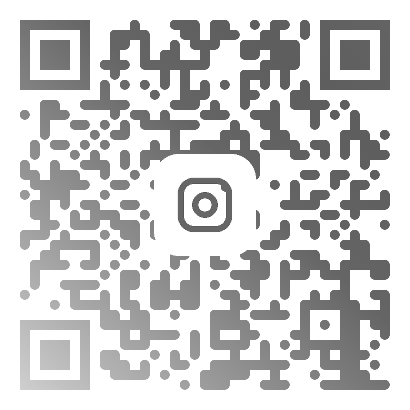
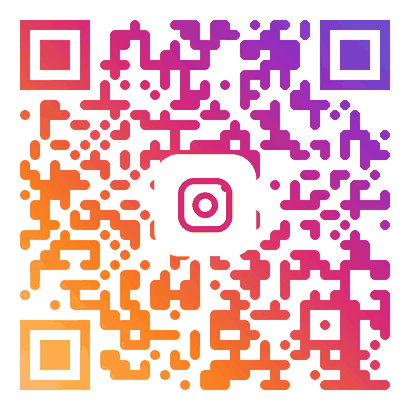
LP: 点検の指摘を反映（実名不要の明記、英中の実ラベル併記とアプリは日本語のみの注記、校舎の訳、平均15〜20分、固定ボタンがフッターを隠さない、統計2×2、About見出し、QRをカラーに等）
Claude-Session: https://claude.ai/code/session_01UHYxsu5FAgHywruL1DhtZn

diff --git a/index.html b/index.html
@@ -852,7 +852,6 @@ footer {
 ════════════════════════════════════════════ */
 @media (max-width: 375px) {
   .hero-title { font-size: 2.4rem; }
-  .hero-stats { flex-direction: column; align-items: center; gap: 12px; }
   .members-grid { grid-template-columns: 1fr; }
 }
 
@@ -976,6 +975,24 @@ footer { font-size: 0.8rem; line-height: 1.7; }
   .hero::before { animation: none !important; }
   .sticky-cta { transition: none; }
 }
+.app-shot { margin: 48px auto 0; }
+/* ヒーローの統計: スマホでは 2×2 */
+@media (max-width: 767px) {
+  .hero-stats { display: grid; grid-template-columns: repeat(2, auto); justify-content: center; gap: 16px 32px; }
+  footer { padding-bottom: 96px; }
+  .lang-btn { border: 7px solid transparent; border-width: 7px 2px; padding: 0 8px; }
+  .lang-btn.active { background-clip: padding-box; }
+}
+/* このサービスについて: 3枚が 2＋1 で空かないように */
+.about-grid { grid-template-columns: 1fr; }
+@media (min-width: 576px) and (max-width: 1099px) {
+  .about-grid { grid-template-columns: repeat(2, 1fr); }
+  .about-card:last-child { grid-column: 1 / -1; }
+}
+@media (min-width: 1100px) { .about-grid { grid-template-columns: repeat(3, 1fr); } }
+/* TEST 札を文の先頭に入れて、札だけ別の行にならないように */
+.hero-note { display: block; max-width: 600px; text-align: center; }
+.hero-note-tag { display: inline-block; margin-right: 6px; vertical-align: 0.1em; }
 /* 「探しに行こ／う。」のように途中で折れないように */
 .cta-title .accent { display: inline-block; }
 </style>
@@ -1088,8 +1105,8 @@ footer { font-size: 0.8rem; line-height: 1.7; }
         <div class="stat-num" data-count="3"><span class="num">3</span></div>
         <div class="stat-label">
           <span class="ja">対応校舎</span>
-          <span class="en">Campuses</span>
-          <span class="zh">对应校区</span>
+          <span class="en">Buildings</span>
+          <span class="zh">对应教学楼</span>
         </div>
       </div>
       <div class="stat-divider"></div>
@@ -1097,14 +1114,14 @@ footer { font-size: 0.8rem; line-height: 1.7; }
         <div class="stat-num" data-count="88.9"><span class="num">88.9</span><span>%</span></div>
         <div class="stat-label">
           <span class="ja">教室探しに不満※</span>
-          <span class="en">Unhappy hunting rooms*</span>
+          <span class="en">Unhappy with room hunting*</span>
           <span class="zh">对找教室不满*</span>
         </div>
       </div>
     </div>
     <p class="stat-note">
       <span class="ja">※ RoomRadar 運営学生による非公式の学内アンケートより</span>
-      <span class="en">* From an unofficial survey of students run by the RoomRadar team</span>
+      <span class="en">* From an unofficial student survey run by the RoomRadar team</span>
       <span class="zh">* 来自RoomRadar运营学生进行的非官方问卷</span>
     </p>
 
@@ -1179,9 +1196,9 @@ footer { font-size: 0.8rem; line-height: 1.7; }
       <div class="problem-card reveal reveal-delay-3">
         <span class="problem-icon">⏱</span>
         <p class="problem-text">
-          <span class="ja">教室探しだけで、毎回15〜20分をロスしている（運営の非公式アンケートより）。</span>
-          <span class="en">Losing 15–20 minutes every time just to find a place to study (from our unofficial survey).</span>
-          <span class="zh">每次光是找教室就要浪费15〜20分钟（来自运营方的非官方问卷）。</span>
+          <span class="ja">教室探しだけで、平均15〜20分を毎回ロスしている（運営の非公式アンケートより）。</span>
+          <span class="en">Losing 15–20 minutes on average just to find a place to study (from our unofficial survey).</span>
+          <span class="zh">光是找教室平均就要花15〜20分钟（来自运营方的非官方问卷）。</span>
         </p>
       </div>
     </div>
@@ -1204,15 +1221,6 @@ footer { font-size: 0.8rem; line-height: 1.7; }
       <span class="en">What RoomRadar does</span>
       <span class="zh">RoomRadar能做什么</span>
     </h2>
-    <figure class="app-shot reveal">
-      <div class="phone"><img src="assets/lp/app-screen.webp" width="600" height="1298" loading="lazy"
-        alt="RoomRadar の画面。いまから使える教室が校舎ごとに並んでいる"></div>
-      <figcaption>
-        <span class="ja">実際の画面（2026年度後期・水曜3限に開いた例）</span>
-        <span class="en">The actual app (opened on a Wednesday, 3rd period, AY2026 fall)</span>
-        <span class="zh">实际画面（2026学年后期·周三第3节打开时的示例）</span>
-      </figcaption>
-    </figure>
     <div class="features-grid">
       <div class="feature-card blue reveal reveal-delay-1">
         <span class="feature-num">01</span>
@@ -1238,8 +1246,8 @@ footer { font-size: 0.8rem; line-height: 1.7; }
         </h3>
         <p class="feature-desc">
           <span class="ja">「続けて使う」で2コマ・3コマを選ぶと、その間ずっと空いている教室だけに絞れます。「〜6限」バッジで何限まで空いているかも一目でわかります。</span>
-          <span class="en">Choose 2 or 3 periods under “Consecutive” to see only rooms free the whole time. A “until P6” badge shows how long each room stays free.</span>
-          <span class="zh">在“连续使用”中选择2节或3节，只显示这段时间一直空着的教室。“〜第6节”标签显示可用到第几节。</span>
+          <span class="en">Choose 2 or 3 periods under 「続けて使う」 (Consecutive) to see only rooms free the whole time. An 「〜6限」 (until P6) badge shows how long each room stays free.</span>
+          <span class="zh">在“続けて使う”（连续使用）中选择2节或3节，只显示这段时间一直空着的教室。“〜6限”（到第6节）标签显示可用到第几节。</span>
         </p>
       </div>
       <div class="feature-card orange reveal reveal-delay-3">
@@ -1265,9 +1273,9 @@ footer { font-size: 0.8rem; line-height: 1.7; }
           <span class="zh">临时占用登记（非官方）</span>
         </h3>
         <p class="feature-desc">
-          <span class="ja">教室をタップして名前と目的を入れると、「この教室を使う予定」を他の利用者に共有できます。※RoomRadar上の目安の共有です。大学公式の予約ではなく、教室の使用権も保証しません。</span>
-          <span class="en">Tap a room and enter a name and purpose to let others know you plan to use it. This is only a heads-up on RoomRadar — not an official university reservation, and it does not guarantee you can use the room.</span>
-          <span class="zh">点击教室并输入姓名和用途，即可告诉其他用户你打算使用该教室。※仅为RoomRadar上的信息共享，并非大学官方预约，也不保证教室使用权。</span>
+          <span class="ja">教室をタップしてニックネームやグループ名（実名は不要）と目的を入れると、「この教室を使う予定」を他の利用者に共有できます。※RoomRadar上の目安の共有です。大学公式の予約ではなく、教室の使用権も保証しません。</span>
+          <span class="en">Tap a room and enter a nickname or group name (no real name needed) and purpose to let others know you plan to use it. This is only a heads-up on RoomRadar — not an official university reservation, and it does not guarantee you can use the room.</span>
+          <span class="zh">点击教室并输入昵称或小组名（无需真实姓名）和用途，即可告诉其他用户你打算使用该教室。※仅为RoomRadar上的信息共享，并非大学官方预约，也不保证教室使用权。</span>
         </p>
       </div>
       <div class="feature-card orange reveal reveal-delay-2">
@@ -1280,8 +1288,8 @@ footer { font-size: 0.8rem; line-height: 1.7; }
         </h3>
         <p class="feature-desc">
           <span class="ja">時間割にない授業などで使われていたら報告できます。2件以上の報告で「使用中の可能性」と表示され、他の利用者に知らせます。</span>
-          <span class="en">If a room turns out to be in use (e.g. an unscheduled class), report it. With 2+ reports it's marked “may be in use” for others.</span>
-          <span class="zh">如发现教室因课表外授课等被占用，可以举报。2条以上举报后会显示“可能正在使用”，提醒其他用户。</span>
+          <span class="en">If a room turns out to be in use (e.g. an unscheduled class), report it. With 2+ reports it's marked 「使用中の可能性」 (may be in use) for others.</span>
+          <span class="zh">如发现教室因课表外授课等被占用，可以举报。2条以上举报后会显示“使用中の可能性”（可能正在使用），提醒其他用户。</span>
         </p>
       </div>
       <div class="feature-card blue reveal reveal-delay-3">
@@ -1294,11 +1302,20 @@ footer { font-size: 0.8rem; line-height: 1.7; }
         </h3>
         <p class="feature-desc">
           <span class="ja">隔週の授業だけが入っている教室は「週によっては空き」として別枠に表示。年度・学期も切り替えられます。</span>
-          <span class="en">Rooms with only alternate-week classes are listed separately as “free some weeks”. You can also switch the academic year and term.</span>
-          <span class="zh">只有隔周课程的教室会单独列为“部分周空闲”。还可以切换学年和学期。</span>
+          <span class="en">Rooms with only alternate-week classes are listed separately as 「週によっては空き」 (free some weeks). You can also switch the academic year and term.</span>
+          <span class="zh">只有隔周课程的教室会单独列为“週によっては空き”（部分周空闲）。还可以切换学年和学期。</span>
         </p>
       </div>
     </div>
+    <figure class="app-shot reveal">
+      <div class="phone"><img src="assets/lp/app-screen.webp" width="600" height="1298" loading="lazy"
+        alt="RoomRadar の画面。いまから使える教室が校舎ごとに並んでいる"></div>
+      <figcaption>
+        <span class="ja">実際の画面（2026年度後期・水曜3限に開いた例）</span>
+        <span class="en">The actual app (opened on a Wednesday, 3rd period, AY2026 fall). The app itself is in Japanese only.</span>
+        <span class="zh">实际画面（2026学年后期·周三第3节打开时的示例）。应用界面仅提供日语。</span>
+      </figcaption>
+    </figure>
     <div class="buildings reveal">
       <div class="building-badge tower"><span class="dot"></span>タワースコラ · Tower Schola</div>
       <div class="building-badge suruga"><span class="dot"></span>駿河台校舎 · Surugadai</div>
@@ -1346,8 +1363,8 @@ footer { font-size: 0.8rem; line-height: 1.7; }
         </h3>
         <p class="step-desc">
           <span class="ja">曜日・時限・校舎や「続けて使う」コマ数を選んで「空き教室を検索」。教室名から、その教室の1週間を見ることもできます。</span>
-          <span class="en">Pick the day, period, building or how many periods in a row, then tap Search. You can also look up a room by name to see its week.</span>
-          <span class="zh">选择星期、时段、校区或连续节数，点击“搜索空教室”。也可以按教室名查看该教室一周的情况。</span>
+          <span class="en">Pick the day, period, building or how many periods in a row, then tap 「空き教室を検索」 (Search). You can also look up a room by name to see its week.</span>
+          <span class="zh">选择星期、时段、教学楼或连续节数，点击“空き教室を検索”（搜索空教室）。也可以按教室名查看该教室一周的情况。</span>
         </p>
       </div>
       <div class="step reveal reveal-delay-3">
@@ -1545,20 +1562,23 @@ footer { font-size: 0.8rem; line-height: 1.7; }
 <!-- ════════════════════════════════════════════
      このサービスについて
 ════════════════════════════════════════════ -->
-<section class="about" id="about">
+<section class="about" id="about" aria-labelledby="about-title">
   <div class="section-inner">
     <div class="section-eyebrow reveal">
-      <span class="ja">このサービスについて</span>
-      <span class="en">About</span>
-      <span class="zh">关于本服务</span>
+      About
     </div>
+    <h2 class="section-title reveal" id="about-title">
+      <span class="ja">このサービスについて</span>
+      <span class="en">About this service</span>
+      <span class="zh">关于本服务</span>
+    </h2>
     <div class="about-grid">
       <div class="about-card reveal">
         <h3><span class="ja">運営</span><span class="en">Who runs it</span><span class="zh">运营</span></h3>
         <p>
-          <span class="ja">日本大学「自主創造プロジェクト」の一環として、理工学部の学生が開発・運営しています。大学公式のサービスではなく、現在テスト運用中です。学内での正式な提供については調整中です。</span>
-          <span class="en">Developed and run by students of the College of Science and Technology as part of a Nihon University student project program. It is not an official university service and is currently in test operation.</span>
-          <span class="zh">作为日本大学学生项目的一部分，由理工学部的学生开发和运营。本服务并非大学官方服务，目前为测试运营中。</span>
+          <span class="ja">日本大学「自主創造プロジェクト」の一環として、理工学部の学生を中心に開発・運営しています。大学公式のサービスではなく、現在テスト運用中です。学内での正式な提供については調整中です。</span>
+          <span class="en">Developed and run mainly by students of the College of Science and Technology as part of a Nihon University student project program. It is not an official university service and is currently in test operation.</span>
+          <span class="zh">作为日本大学学生项目的一部分，主要由理工学部的学生开发和运营。本服务并非大学官方服务，目前为测试运营中。</span>
         </p>
       </div>
       <div class="about-card reveal">
@@ -1772,7 +1792,7 @@ const GOOGLE_FORM = {
 (function () {
   const btn = document.getElementById('stickyCta');
   if (!btn || !('IntersectionObserver' in window)) return;
-  const watch = ['.hero-cta', '#cta', '#feedback'].map(q => document.querySelector(q)).filter(Boolean);
+  const watch = ['.hero-cta', '#cta', '#feedback', 'footer'].map(q => document.querySelector(q)).filter(Boolean);
   const visible = new Set();
   let typing = false;
   function update() {
